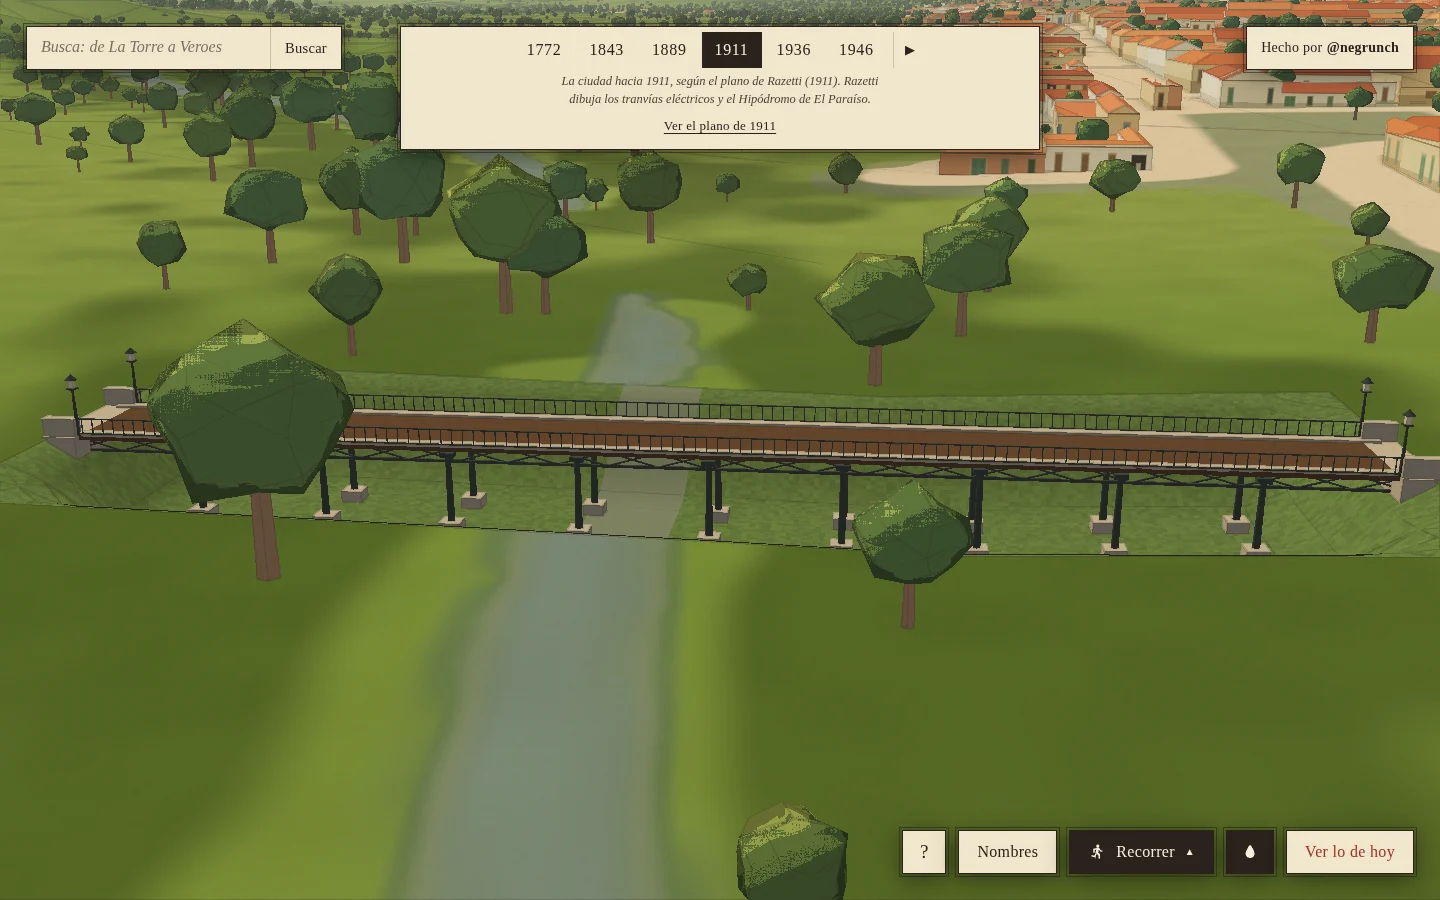
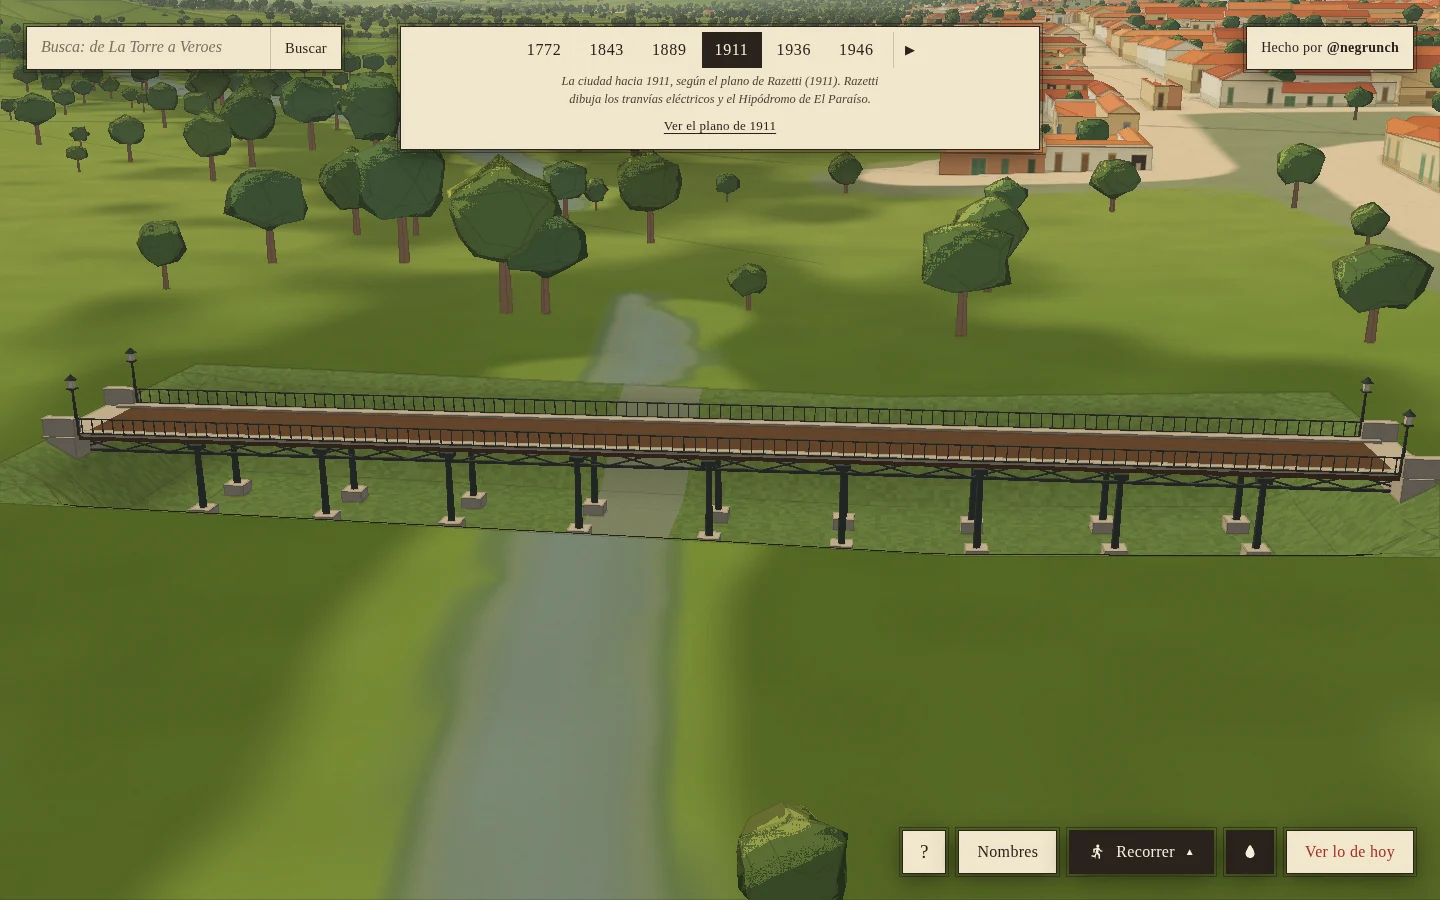
fix: árboles fuera de la huella y los accesos del puente, y cauce de 1936 fuera de la manzana
Los árboles plantados al borde del cauce tapaban el tablero: se retiran de la
huella con el margen de una copa y de la calzada de los accesos, con la vida
del puente. En 1936, junto al tramo a ras, solo la calzada: los de los patios
vecinos son ajenos.

Ningún hito va encima de una manzana: el cauce de 1936 entraba hasta 2,1 m en
la del oeste y pasa de 31 a 22 m, con el talud más corto. Medido contra el
suelo de manzanas en 1889, 1911 y 1936 (docs/puente-hierro-integracion.md).

De la revisión: un lecho que es todo agua no rompe el dibujo, y el E2E espera
la línea de tiempo antes de usarla.

Refs #272

Claude-Session: https://claude.ai/code/session_016wLvLzPGE3irYQgPfs9SqY

diff --git a/src/hitos/datos/puentes-guaire.js b/src/hitos/datos/puentes-guaire.js
@@ -36,9 +36,26 @@ const ANCHO_RAS_M = ANCHO_TABLERO_M + 2
 // del plano de 1936 (y = 9447 y 9458 px), que es el que el suelo de la ciudad pinta en todas estas épocas.
 const AGUA = Object.freeze([2.6, 8.1])
 const franja = (tramo, ancho) => rectanguloPx(marco, tramo[1] - tramo[0], ancho, (tramo[0] + tramo[1]) / 2, 0)
+// En 1936 hay una manzana al oeste cuyo borde queda a unos 12 m del eje: el cauce se angosta a 11 m por lado
+// para no pisarla (ningún hito va encima de una manzana), con el talud más corto.
+const ANCHO_CAUCE_1936_M = 22
+const TALUD_1936_M = 6.5
 const cauces = Object.freeze([
   Object.freeze({ nace: 3, muere: 5, poligono: franja(vanoEntero, ANCHO_CAUCE_M) }),
-  Object.freeze({ nace: 5, muere: 6, poligono: franja(vano1936, ANCHO_CAUCE_M) }),
+  Object.freeze({ nace: 5, muere: 6, poligono: franja(vano1936, ANCHO_CAUCE_1936_M) }),
+])
+// Los árboles se retiran de la huella y de los accesos, no solo del cauce: una copa plantada al borde tapa el
+// tablero. A los lados del cauce, lo que mide una copa grande; en cada acceso, la calzada y 12 m más allá de la
+// cabeza. En 1936 el margen es de 3 m y, junto al tramo a ras, solo la calzada: los árboles de los patios
+// vecinos son ajenos.
+const MARGEN_COPA_M = 9.5
+const MARGEN_COPA_1936_M = 3
+const ACCESO_M = 12
+const calzada = Object.freeze([vanoEntero[0] - ACCESO_M, vanoEntero[1] + ACCESO_M])
+const sinArboles = Object.freeze([
+  Object.freeze({ nace: 3, muere: 5, poligono: franja(vanoEntero, ANCHO_CAUCE_M + 2 * MARGEN_COPA_M) }),
+  Object.freeze({ nace: 5, muere: 6, poligono: franja(vano1936, ANCHO_CAUCE_1936_M + 2 * MARGEN_COPA_1936_M) }),
+  Object.freeze({ nace: 3, muere: 6, poligono: franja(calzada, ANCHO_RAS_M) }),
 ])
 const parte = { tipo: 'puente', id: 'hierro', largo: marco.largo }
 const cauce = { ...parte, capa: 'cauce', anchoCauce: ANCHO_CAUCE_M, agua: AGUA }
@@ -48,16 +65,16 @@ export const puenteHierro = Object.freeze({
   // 1889, 1911 y 1936: en 1937 lo sustituyó otro puente, sin alzado restituido; en 1946 no se dibuja ni se reserva
   nace: 3, muere: 6,
   largo: marco.largo, cabezas: CALCE_HIERRO.cabezas,
-  // Sin planta: no es un obstáculo, se cruza. La reserva (casas y árboles) es solo el cauce abierto bajo el tablero.
+  // Sin planta: no es un obstáculo, se cruza. La reserva de casas es solo el cauce abierto bajo el tablero.
   planta: Object.freeze([]),
-  suprimePorEpoca: cauces, sinArbolesPorEpoca: cauces,
+  suprimePorEpoca: cauces, sinArbolesPorEpoca: sinArboles,
   // El suelo de la ciudad se abre en el cauce y, en 1936, también bajo el tramo a ras.
   sueloPropioPorEpoca: Object.freeze([...cauces, Object.freeze({ nace: 5, muere: 6, poligono: franja(aRas1936, ANCHO_RAS_M) })]),
   // La estructura es una sola de 1889 a 1936; el cauce (lecho y pilas a la vista) cambia en 1936.
   partes: Object.freeze([
     Object.freeze({ ...parte, capa: 'estructura', anio: 1889, nace: 3, muere: 6 }),
     Object.freeze({ ...cauce, anio: 1889, nace: 3, muere: 5, vano: vanoEntero }),
-    Object.freeze({ ...cauce, anio: 1936, nace: 5, muere: 6, vano: vano1936, aRas: aRas1936, anchoRas: ANCHO_RAS_M }),
+    Object.freeze({ ...cauce, anio: 1936, nace: 5, muere: 6, vano: vano1936, anchoCauce: ANCHO_CAUCE_1936_M, taludAncho: TALUD_1936_M, aRas: aRas1936, anchoRas: ANCHO_RAS_M }),
   ]),
   fuente: `Planos de Mestre (1889), Razetti (1911) y DCN (1936), calzados: docs/puentes-guaire-calce.md; Silva Contreras, Tecnología y Construcción 20-II (2004), pp. 32–34 y 40: ${SILVA}; FAC (inauguración en 1875, sustitución en 1937): ${FAC}; estudio de Miraflores (grunch/miraflores, docs/puentes-guaire/hierro.md)`,
   verificar: Object.freeze([
@@ -65,7 +82,7 @@ export const puenteHierro = Object.freeze({
     'Largo de 77,4 m: el del símbolo de Mestre, que en el Puente Constitución da 60,7 m contra 59,56 m del estudio. Los pedestales de Razetti quedan a 95,5 m, pero ese plano da 48 m para el Sucre de 60 m: no se usa para el largo. El estudio traía 90 m nominales; ninguna fuente consultada da el largo.',
     'Ancho (7 m), altura del tablero sobre el lecho (5 m), espesores y colores: nominales del estudio de Miraflores. Nueve apoyos intermedios, vigas inferiores, columnas y barandas: Silva Contreras y grabado histórico.',
     'Lecho interpretativo: el relieve (Copernicus GLO-30) no trae el cauce del Guaire. Se abre un cuenco de 5 m bajo el tablero, de cabeza a cabeza; ni su forma ni su fondo son medidos. La franja de agua va donde el plano de 1936 dibuja el río sobre el eje.',
-    'En 1936 el tramo norte va a ras del terreno para conservar dos edificaciones del plano pegadas a la calzada; ahí las pilas no se ven.',
+    'En 1936 el tramo norte va a ras del terreno para conservar dos edificaciones del plano pegadas a la calzada; ahí las pilas no se ven. El cauce se angosta a 22 m para no pisar la manzana del oeste.',
     'En 1946 el cruce existe (puente sustituto de 1937) pero no tiene alzado: no se dibuja ni se reserva.',
   ]),
 })

diff --git a/tests/unit/puente-hierro.test.js b/tests/unit/puente-hierro.test.js
@@ -173,14 +173,36 @@ describe('Puente de Hierro: reserva limitada', () => {
   })
 
   test('quita los árboles del cauce y conserva los ajenos, antes y después de la estructura', () => {
-    // Arrange: uno bajo el tablero, uno a 40 m del eje
-    const dentro = [puenteHierro.x, puenteHierro.y + 20]
-    const datos = { n: 2, x: Float32Array.of(dentro[0], dentro[0] + 80), y: Float32Array.of(dentro[1], dentro[1]), nace: Uint16Array.of(1, 1), muere: Uint16Array.of(0, 0) }
+    // Arrange: en el marco del puente (a lo largo, a lo ancho, en metros) → píxeles
+    const [ux, uy] = puenteHierro.eje
+    const px = (a, b) => [puenteHierro.x + (a * ux - b * uy) / plano.metro, puenteHierro.y + (a * uy + b * ux) / plano.metro]
+    const casos = [
+      [[10, 0], [1, 3]], // bajo el tablero
+      [[10, 22], [1, 3]], // al borde del cauce: su copa taparía el tablero
+      [[-puenteHierro.largo / 2 - 8, 2], [1, 3]], // en el acceso norte, sobre la calzada
+      [[puenteHierro.largo / 2 + 8, -2], [1, 3]], // en el acceso sur
+      [[10, 40], [1, 0]], // a 40 m del eje: ajeno
+      [[-puenteHierro.largo / 2 - 8, 12], [1, 0]], // al lado del acceso, fuera de la calzada: ajeno
+      [[puenteHierro.largo / 2 + 30, 0], [1, 0]], // sobre la calle, más allá del acceso: ajeno
+    ]
+    const puntos = casos.map(([[a, b]]) => px(a, b))
+    const datos = { n: casos.length, x: Float32Array.from(puntos, p => p[0]), y: Float32Array.from(puntos, p => p[1]), nace: new Uint16Array(casos.length).fill(1), muere: new Uint16Array(casos.length) }
     // Act
     const salida = suprimirArbolesDeHitos(datos, [puenteHierro])
     // Assert
-    expect([salida.nace[0], salida.muere[0]]).toEqual([1, 3])
-    expect([salida.nace[1], salida.muere[1]]).toEqual([1, 0])
+    casos.forEach(([, vida], i) => expect([salida.nace[i], salida.muere[i]], `árbol ${i}`).toEqual(vida))
+  })
+
+  test('en 1936, junto al tramo a ras, solo se despeja la calzada: los árboles de los patios vecinos siguen', () => {
+    const [ux, uy] = puenteHierro.eje
+    const px = (a, b) => [puenteHierro.x + (a * ux - b * uy) / plano.metro, puenteHierro.y + (a * uy + b * ux) / plano.metro]
+    // nacidos en 1936: uno en un patio a 12 m del eje, frente al tramo a ras; otro sobre la calzada de ese tramo
+    const puntos = [px(-23, -12), px(-23, 0)]
+    const datos = { n: 2, x: Float32Array.from(puntos, p => p[0]), y: Float32Array.from(puntos, p => p[1]), nace: Uint16Array.of(5, 5), muere: Uint16Array.of(6, 6) }
+    const salida = suprimirArbolesDeHitos(datos, [puenteHierro])
+    expect([salida.nace[0], salida.muere[0]]).toEqual([5, 6])
+    expect(salida.nace[1]).toBeGreaterThanOrEqual(6) // no llega a nacer mientras el puente está en pie
+    for (const { desde, hasta } of poligonosConVida(puenteHierro, 'sinArboles')) expect(vivo(desde, hasta, 6)).toBe(false)
   })
 
   test('el lecho empalma con el terreno en el borde y lleva la franja del río de lado a lado', () => {
@@ -204,8 +226,10 @@ describe('Puente de Hierro: reserva limitada', () => {
       expect([...g.attributes.suelo.array].every(s => s === 1)).toBe(true)
       for (let i = 0; i < g.attributes.normal.count; i++) expect(g.attributes.normal.getY(i)).toBeGreaterThan(0.5)
     }
-    // sin franja de río no hay agua
+    // sin franja de río no hay agua; y un lecho que es todo agua no tiene orilla ni rompe el dibujo
     expect(sueloDelPuente(lecho, cauce.vano, cauce.anchoCauce).agua).toBeNull()
+    expect(sueloDelPuente(lecho, cauce.vano, cauce.anchoCauce, [cauce.vano[0] - 1, cauce.vano[1] + 1]).orilla).toBeNull()
+    expect(() => construirHitos([{ ...puenteHierro, partes: [{ ...cauce, agua: [cauce.vano[0] - 1, cauce.vano[1] + 1] }] }], coords)).not.toThrow()
   })
 
   test('en 1936 el tramo norte va a ras, con suelo propio bajo el tablero, y conserva lo edificado al lado', () => {
@@ -214,6 +238,11 @@ describe('Puente de Hierro: reserva limitada', () => {
     expect(cauce1936.aRas[1]).toBe(cauce1936.vano[0])
     expect(cauce1936.anchoRas).toBeLessThan(10) // apenas más que el tablero de 7 m
     expect(zonasDeSupresion([puenteHierro])).toHaveLength(2) // el tramo a ras no suprime casas
+    // el cauce de 1936 es más angosto (hay una manzana al oeste) y bajo las pilas sigue llegando al fondo
+    expect(cauce1936.anchoCauce).toBeLessThan(puenteHierro.partes[1].anchoCauce)
+    const lecho1936 = lechoDe({ vano: cauce1936.vano, ancho: cauce1936.anchoCauce, fondo: 5, taludAncho: cauce1936.taludAncho })
+    expect(lecho1936(10, 2.4)).toBeCloseTo(5, 6)
+    expect(lecho1936(10, cauce1936.anchoCauce / 2)).toBe(0)
     // el terraplén va bajo el tablero, sobre la rasante: ni un vértice suyo sigue el suelo ni pasa de la losa
     const terraplen = verticesDelPuente().filter(v => v.nace === 5 && v.mat === MAT.JARDIN && v.modo === APOYO.RASANTE)
     expect(terraplen).toHaveLength(24)

diff --git a/src/hitos/puente.js b/src/hitos/puente.js
@@ -42,7 +42,7 @@ const SUELO_VERDE = Object.freeze([1, 1, -1])
 const AGUA = Object.freeze([0.21, 0.26, 0.175])
 
 const sinLecho = () => 0
-const lechoDeParte = ({ vano = null, anchoCauce = 0 }, fondo) => (vano ? lechoDe({ vano, ancho: anchoCauce, fondo }) : sinLecho)
+const lechoDeParte = ({ vano = null, anchoCauce = 0, taludAncho }, fondo) => (vano ? lechoDe({ vano, ancho: anchoCauce, fondo, taludAncho }) : sinLecho)
 
 function soltar(edificio) {
   const [geometrias, materiales] = [new Set(), new Set()]
@@ -127,18 +127,19 @@ export function sueloDelPuente(lecho, [x0, x1], ancho, agua = null) {
 /**
  * Dibuja un puente del catálogo entre sus dos cabezas: `id` y `anio` eligen la estructura (si esa época no tiene
  * alzado, no dibuja nada: el cruce sigue en la marca); `largo`, la distancia medida entre cabezas; `vano` y
- * `anchoCauce`, el lecho abierto bajo el tablero (sin `vano`, el puente va a ras del terreno); `agua`, la franja
+ * `anchoCauce`, el lecho abierto bajo el tablero (sin `vano`, el puente va a ras del terreno), con `taludAncho`
+ * si las orillas de los lados tienen que ser más cortas que lo usual; `agua`, la franja
  * del río dentro del lecho; `aRas` y `anchoRas`, un tramo donde el tablero va a ras, sobre un terraplén propio
  * (ahí el suelo de la ciudad se abre: podría tapar el tablero); `capa`, si la parte dibuja solo la estructura o solo el
  * cauce (CAPA; por omisión, todo).
  */
-export function puente(p, { id, anio, largo = null, vano = null, anchoCauce = 0, agua = null, aRas = null, anchoRas = 0, capa = null }) {
+export function puente(p, { id, anio, largo = null, vano = null, anchoCauce = 0, taludAncho, agua = null, aRas = null, anchoRas = 0, capa = null }) {
   if (capa && !Object.values(CAPA).includes(capa)) throw new Error(`puente ${id}: capa desconocida "${capa}"`)
   const { edificio, apoyos, etapa, metadatos } = crearPuente({ id, anio, nivelDetalle: 'ciudad', largo })
   try {
     if (!etapa.modelo) return
     const { largo: L, cotaTablero } = metadatos
-    const lecho = lechoDeParte({ vano, anchoCauce }, cotaTablero)
+    const lecho = lechoDeParte({ vano, anchoCauce, taludAncho }, cotaTablero)
     const r = p.rasante([-L / 2, 0], [L / 2, 0])
     const pintar = (malla, geometria) => r.geo(geometria, { color: malla.material.color.toArray(), mat: MAT.LISO }) // three guarda el color lineal
     if (dibuja(capa, CAPA.ESTRUCTURA)) {
@@ -156,7 +157,7 @@ export function puente(p, { id, anio, largo = null, vano = null, anchoCauce = 0,
     if (!dibuja(capa, CAPA.CAUCE)) return
     if (vano) {
       const suelo = sueloDelPuente(lecho, vano, anchoCauce, agua)
-      r.geo(suelo.orilla, { color: SUELO_VERDE, mat: MAT.JARDIN })
+      if (suelo.orilla) r.geo(suelo.orilla, { color: SUELO_VERDE, mat: MAT.JARDIN }) // un lecho que es todo agua no tiene orilla
       if (suelo.agua) r.geo(suelo.agua, { color: AGUA, mat: MAT.LISO })
     }
     // a ras, el puente va sobre un terraplén que sigue la rasante: el tablero no se hunde en el suelo ni vuela

diff --git a/tests/e2e/puente-hierro.spec.js b/tests/e2e/puente-hierro.spec.js
@@ -7,7 +7,7 @@ test('el Puente de Hierro se dibuja en 1889, 1911 y 1936, y no antes ni en 1946'
   const errores = []
   page.on('pageerror', e => errores.push(e.message))
   await page.goto('/?sinintro&capture&sinsw')
-  await page.waitForFunction(() => window.lab?.ready)
+  await page.waitForFunction(() => window.lab?.ready && window.lab?.lineaDeTiempo)
 
   // Arrange: los vértices del puente en la malla de los hitos, con su vida y su modo de apoyo
   const datos = await page.evaluate(() => {

diff --git a/docs/puente-hierro-integracion.md b/docs/puente-hierro-integracion.md
@@ -10,7 +10,7 @@ en la malla de los hitos, y el Puente de Hierro de 1875 en 1889, 1911 y 1936. No
 |---|---|
 | 1772, 1843 | Nada: el puente no existe |
 | 1889, 1911 | El puente de 77,4 m con sus nueve apoyos, sobre el cauce abierto de cabeza a cabeza |
-| 1936 | La misma estructura. El tramo norte va a ras, sobre un terraplén: el plano dibuja dos edificaciones pegadas a la calzada y se conservan. Se ven seis apoyos |
+| 1936 | La misma estructura. El tramo norte va a ras, sobre un terraplén: el plano dibuja dos edificaciones pegadas a la calzada y se conservan. El cauce es más angosto, para no pisar la manzana del oeste. Se ven seis apoyos |
 | 1946 | Nada: lo sustituyó otro puente en 1937, sin alzado. La marca y la ficha siguen; no se reserva un vacío |
 
 ## El mecanismo
@@ -63,7 +63,7 @@ Un puente de un solo vano (Sucre, Dolores) no tiene pilas: el cauce solo dibuja 
 
 ## Qué es interpretativo
 
-- **El lecho.** Su forma, su fondo de 5 m y su ancho de 31 m no están medidos. La franja de agua va donde el plano
+- **El lecho.** Su forma, su fondo de 5 m y su ancho (31 m; 22 m en 1936) no están medidos. La franja de agua va donde el plano
   de 1936 dibuja el río sobre el eje. El río de los lados es el que pinta el suelo, a ras: en el borde del cuenco
   el agua baja 5 m en talud.
 - **El largo**, 77,4 m: el del símbolo de Mestre (±3 m). El estudio traía 90 m nominales.
@@ -75,9 +75,27 @@ Documentado: el puente de 1875, sus nueve apoyos intermedios, las vigas inferior
 
 ## Reserva
 
-Solo el cauce abierto bajo el tablero: 79 × 31 m en 1889 y 1911, 52 × 31 m en 1936. Sin planta de colisión: el
-puente se cruza. Con los datos del release `datos-2026-11-27-eb21bf8` no suprime ninguna casa en ninguna época y
-quita los árboles que caen dentro del cauce.
+- **Casas:** solo el cauce abierto bajo el tablero: 79 × 31 m en 1889 y 1911, 52 × 22 m en 1936. Con los datos del
+  release `datos-2026-11-27-eb21bf8` no le cambia la vida a ninguna casa en ninguna época.
+- **Árboles:** la huella y los accesos, con la vida del puente. A los lados del cauce, 9,5 m más (lo que mide una
+  copa grande: plantada al borde, tapa el tablero); en cada acceso, la calzada (9 m) hasta 12 m más allá de la
+  cabeza. En 1936 el margen es de 3 m y, junto al tramo a ras, solo la calzada: los árboles de los patios vecinos
+  no se tocan. Con el release actual se retiran ocho árboles, todos anteriores a 1889.
+- **Colisión:** ninguna. El puente se cruza.
+
+## Manzanas
+
+Ningún hito va encima de una manzana. Medido sobre el suelo de manzanas del release (`public/plano/suelo-manzanas*.png`,
+distancia firmada al borde de cada manzana), cada metro a lo largo y cada medio metro a lo ancho:
+
+| Época | Tablero, cabezas y accesos (9 m de ancho) | Cauce |
+|---|---|---|
+| 1889 | A más de 16 m de toda manzana | A más de 16 m |
+| 1911 | A más de 16 m | A más de 16 m |
+| 1936 | Fuera: la más cercana queda a 1,2 m | Fuera: a 1,2 m |
+
+En 1936 el cauce de 31 m entraba hasta 2,1 m en la manzana del oeste. Por eso en esa época mide 22 m, con el talud
+más corto. Las dos edificaciones del lado este quedan a 1,2 m del terraplén: no se pisan, pero están pegadas.
 
 ## Límites
 
